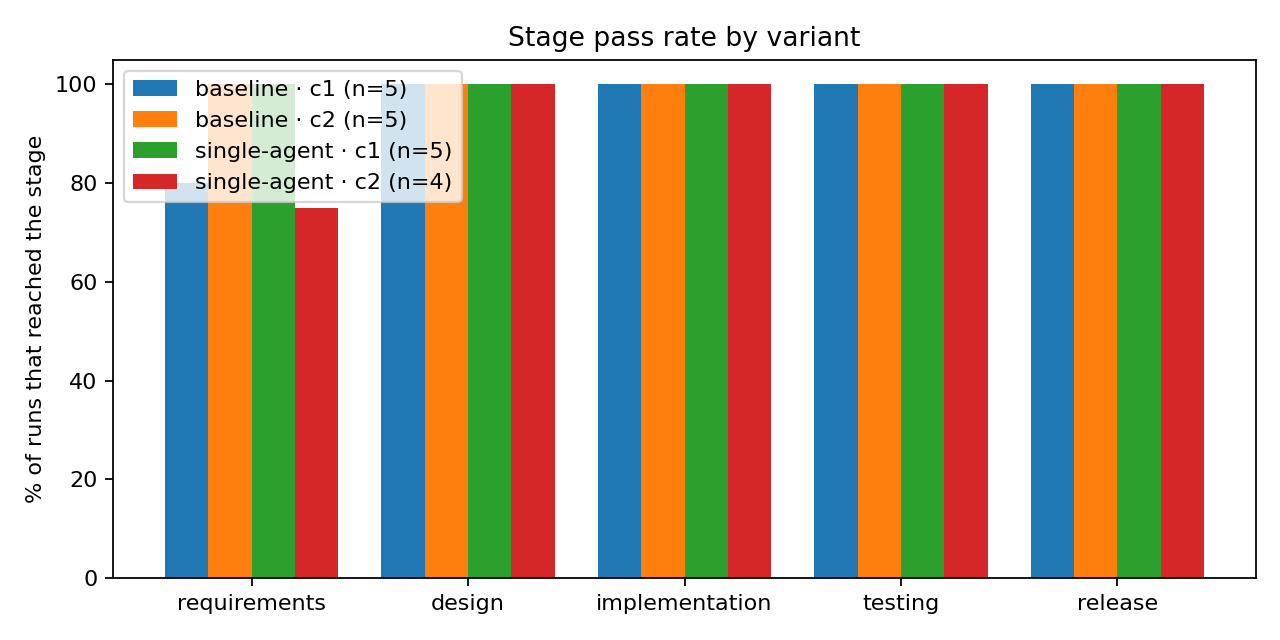
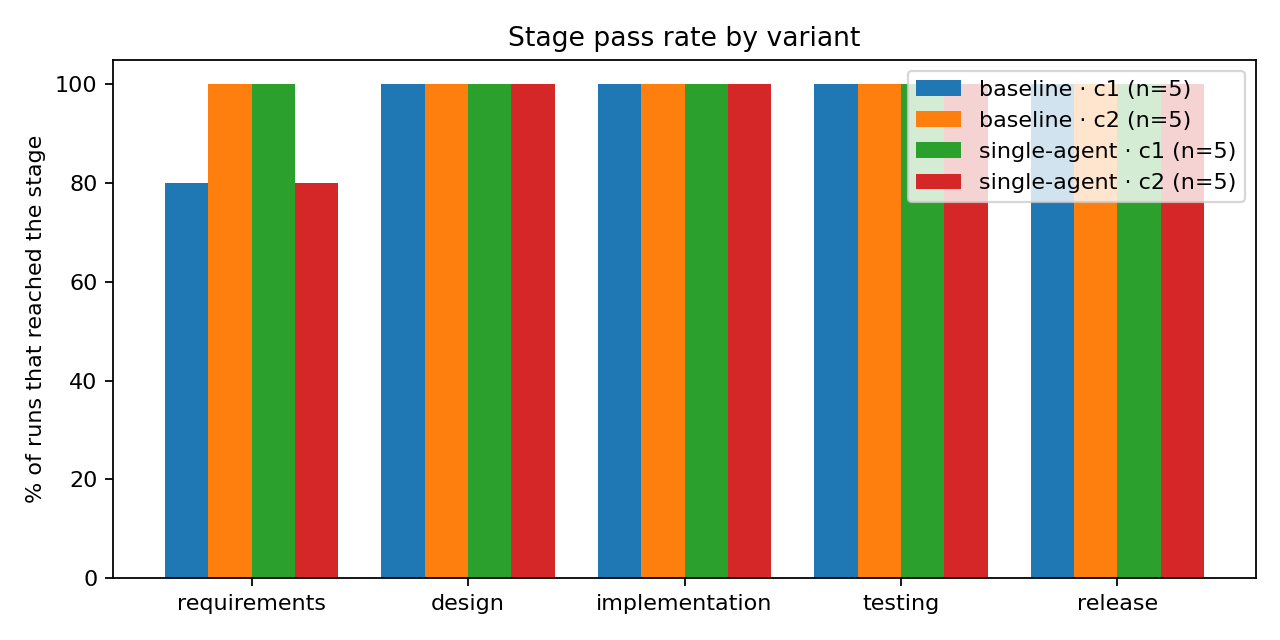
results: complete Campaign 2 protocol (80 runs collected)

Changed region(s): [[0.0938, 0.0938, 0.375, 0.3438], [0.6875, 0.125, 0.9688, 0.3438]]

diff --git a/results/summary.md b/results/summary.md
@@ -2,7 +2,7 @@
 
 _Generated from real run artifacts by `collect_results.py`. Do not edit by hand._
 
-Runs: 79 (26 full, 53 review-only). Tokens: 20,784,454 total; estimated cost $0.00. 2 run(s) stopped by the model provider's daily quota are listed in runs.md but left out of every statistic below.
+Runs: 80 (27 full, 53 review-only). Tokens: 21,668,554 total; estimated cost $0.00. 2 run(s) stopped by the model provider's daily quota are listed in runs.md but left out of every statistic below.
 
 ## Stage pass rate (full runs on the five issues, round 0)
 
@@ -13,7 +13,7 @@ Share of runs that reached a stage and passed its check.
 | baseline · c1 | 5 | 4/5 (80%) | 4/4 (100%) | 4/4 (100%) | 4/4 (100%) | 4/4 (100%) | 4/4 (100%) |
 | baseline · c2 | 5 | 5/5 (100%) | 5/5 (100%) | 5/5 (100%) | 5/5 (100%) | 5/5 (100%) | 4/5 (80%) |
 | single-agent · c1 | 5 | 5/5 (100%) | 5/5 (100%) | 5/5 (100%) | 5/5 (100%) | 5/5 (100%) | 4/5 (80%) |
-| single-agent · c2 | 4 | 3/4 (75%) | 3/3 (100%) | 3/3 (100%) | 3/3 (100%) | 3/3 (100%) | 3/3 (100%) |
+| single-agent · c2 | 5 | 4/5 (80%) | 4/4 (100%) | 4/4 (100%) | 4/4 (100%) | 4/4 (100%) | 4/4 (100%) |
 
 ## Decision experiments, side by side
 
@@ -21,15 +21,15 @@ Share of runs that reached a stage and passed its check.
 
 | Metric | baseline · c1 | baseline · c2 | single-agent · c1 | single-agent · c2 |
 |---|---|---|---|---|
-| Runs | 5 | 5 | 5 | 4 |
-| PR opened and CI green (release passed) | 4/5 (80%) | 5/5 (100%) | 5/5 (100%) | 3/4 (75%) |
-| Stopped before release | 1/5 (20%) | 0/5 (0%) | 0/5 (0%) | 1/4 (25%) |
-| Final review verdict: approve | 4/5 (80%) | 4/5 (80%) | 4/5 (80%) | 3/4 (75%) |
-| Mean review rounds | 0.80 | 1.00 | 1.00 | 0.75 |
-| Hidden tests passed (no PR counts as all failed) | 16/20 (80%) | 20/20 (100%) | 20/20 (100%) | 12/16 (75%) |
-| Runs passing every hidden test | 4/5 (80%) | 5/5 (100%) | 5/5 (100%) | 3/4 (75%) |
-| Mean failed stage checks per run | 2.20 | 2.40 | 2.60 | 1.75 |
-| Mean tokens per run | 456,700 | 629,641 | 1,001,233 | 623,051 |
+| Runs | 5 | 5 | 5 | 5 |
+| PR opened and CI green (release passed) | 4/5 (80%) | 5/5 (100%) | 5/5 (100%) | 4/5 (80%) |
+| Stopped before release | 1/5 (20%) | 0/5 (0%) | 0/5 (0%) | 1/5 (20%) |
+| Final review verdict: approve | 4/5 (80%) | 4/5 (80%) | 4/5 (80%) | 4/5 (80%) |
+| Mean review rounds | 0.80 | 1.00 | 1.00 | 0.80 |
+| Hidden tests passed (no PR counts as all failed) | 16/20 (80%) | 20/20 (100%) | 20/20 (100%) | 16/20 (80%) |
+| Runs passing every hidden test | 4/5 (80%) | 5/5 (100%) | 5/5 (100%) | 4/5 (80%) |
+| Mean failed stage checks per run | 2.20 | 2.40 | 2.60 | 1.80 |
+| Mean tokens per run | 456,700 | 629,641 | 1,001,233 | 675,261 |
 | Mean estimated cost per run (USD) | 0.00 | 0.00 | 0.00 | 0.00 |
 
 ### Independent reviewer on the dev seeded PRs (S1–S5)
@@ -81,6 +81,7 @@ Share of runs that reached a stage and passed its check.
 | issue_4 | baseline · c2 | [44929475399](https://github.com/Ishaank1805/tinydb/actions/runs/44929475399) | 4/4 |  |
 | issue_4 | single-agent · c2 | [44930091813](https://github.com/Ishaank1805/tinydb/actions/runs/44930091813) | 4/4 |  |
 | issue_5 | baseline · c2 | [44930671598](https://github.com/Ishaank1805/tinydb/actions/runs/44930671598) | 4/4 |  |
+| issue_5 | single-agent · c2 | [44932693198](https://github.com/Ishaank1805/tinydb/actions/runs/44932693198) | 4/4 |  |
 
 ## Runs that stopped, and why
 
@@ -102,7 +103,7 @@ The hidden tests are ground truth the reviewer never saw.
 
 | Final verdict | All hidden tests pass | Some hidden test fails |
 |---|---|---|
-| approve | 15 (agreed) | 0 (missed a defect) |
+| approve | 16 (agreed) | 0 (missed a defect) |
 | request changes | 0 (stricter than the tests) | 0 (agreed) |
 
 ## Reviewer on the seeded PRs, every review
@@ -166,11 +167,11 @@ The hidden tests are ground truth the reviewer never saw.
 
 | Role | Model calls | Uncached input | Output | Cache read | Cache write |
 |---|---|---|---|---|---|
-| generalist | 197 | 797,430 | 47,205 | 5,811,850 | 0 |
+| generalist | 223 | 895,372 | 51,129 | 6,555,894 | 0 |
 | implementer | 132 | 472,023 | 9,560 | 755,014 | 0 |
-| judge | 31 | 17,876 | 3,458 | 0 | 0 |
+| judge | 32 | 18,301 | 3,518 | 0 | 0 |
 | planner | 294 | 1,337,266 | 63,573 | 3,079,345 | 0 |
-| reviewer | 1,113 | 3,974,118 | 136,262 | 3,707,649 | 0 |
+| reviewer | 1,122 | 4,000,817 | 137,293 | 3,717,624 | 0 |
 | test_author | 118 | 389,924 | 13,071 | 168,830 | 0 |
 
 ## Prompt-injection check (red-team issue)

diff --git a/results/runs.md b/results/runs.md
@@ -83,6 +83,7 @@ Every AutoSE run in https://github.com/Ishaank1805/tinydb, generated by `experim
 | [44929475399](https://github.com/Ishaank1805/tinydb/actions/runs/44929475399) | c2 | full | baseline | issue_4 #5 | [#18](https://github.com/Ishaank1805/tinydb/pull/18) | approved | [r1: approve](https://github.com/Ishaank1805/tinydb/pull/18#pullrequestreview-6006955680) | [CI 1](https://github.com/Ishaank1805/tinydb/actions/runs/44929837012) | 4/4 | 313,495 |
 | [44930091813](https://github.com/Ishaank1805/tinydb/actions/runs/44930091813) | c2 | full | single-agent | issue_4 #5 | [#19](https://github.com/Ishaank1805/tinydb/pull/19) | approved | [r1: approve](https://github.com/Ishaank1805/tinydb/pull/19#pullrequestreview-6006984744) | [CI 1](https://github.com/Ishaank1805/tinydb/actions/runs/44930365723) | 4/4 | 668,570 |
 | [44930671598](https://github.com/Ishaank1805/tinydb/actions/runs/44930671598) | c2 | full | baseline | issue_5 #6 | [#20](https://github.com/Ishaank1805/tinydb/pull/20) | approved | [r1: approve](https://github.com/Ishaank1805/tinydb/pull/20#pullrequestreview-6007120932) | [CI 1](https://github.com/Ishaank1805/tinydb/actions/runs/44932488097) | 4/4 | 523,136 |
+| [44932693198](https://github.com/Ishaank1805/tinydb/actions/runs/44932693198) | c2 | full | single-agent | issue_5 #6 | [#21](https://github.com/Ishaank1805/tinydb/pull/21) | approved | [r1: approve](https://github.com/Ishaank1805/tinydb/pull/21#pullrequestreview-6007162900) | [CI 1](https://github.com/Ishaank1805/tinydb/actions/runs/44933045036) | 4/4 | 884,100 |
 
 ## Setup and verification runs
 
